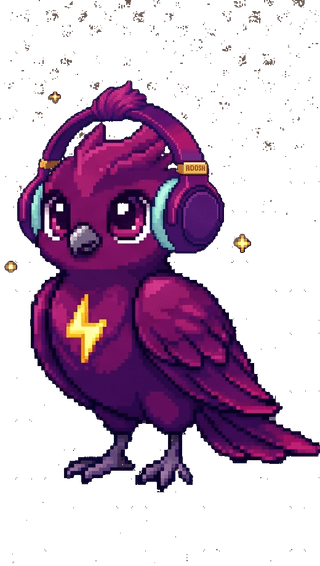
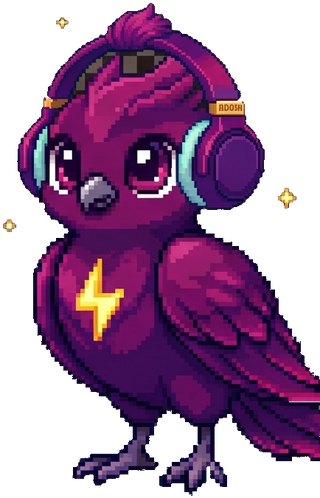
Adiciona arte real do item Oculos e substitui a do Fone Adora
Recorta e limpa (remocao de fundo por flood-fill a partir da borda,
preservando detalhes internos como olhos) as artes geradas por estagio
de evolucao para o item generico "Oculos" (novo) e para o "Fone Adora"
(substitui a arte anterior), com icones correspondentes na lista de Itens.

diff --git a/src/components/pet/PetSprite.tsx b/src/components/pet/PetSprite.tsx
@@ -27,6 +27,10 @@ const EQUIPPED_SPRITE_IMAGES: Record<string, string> = {
   "young__item_bebrave_glasses": "/pet/young-item_bebrave_glasses.png",
   "adult__item_bebrave_glasses": "/pet/adult-item_bebrave_glasses.png",
   "special__item_bebrave_glasses": "/pet/special-item_bebrave_glasses.png",
+  "hatchling__item_glasses": "/pet/hatchling-item_glasses.png",
+  "young__item_glasses": "/pet/young-item_glasses.png",
+  "adult__item_glasses": "/pet/adult-item_glasses.png",
+  "special__item_glasses": "/pet/special-item_glasses.png",
 };
 
 export function PetSprite({

diff --git a/src/components/item/ItemSprite.tsx b/src/components/item/ItemSprite.tsx
@@ -5,8 +5,9 @@ import Image from "next/image";
  * arte própria ainda (a maioria do seed) caem no fallback de emoji.
  */
 const SPRITE_IMAGES: Record<string, string> = {
-  item_headphones_adora: "/items/item_headphones_adora.svg",
+  item_headphones_adora: "/items/item_headphones_adora.png",
   item_bebrave_glasses: "/items/item_bebrave_glasses.svg",
+  item_glasses: "/items/item_glasses.png",
 };
 
 export function ItemSprite({ spriteKey, className = "" }: { spriteKey: string; className?: string }) {
